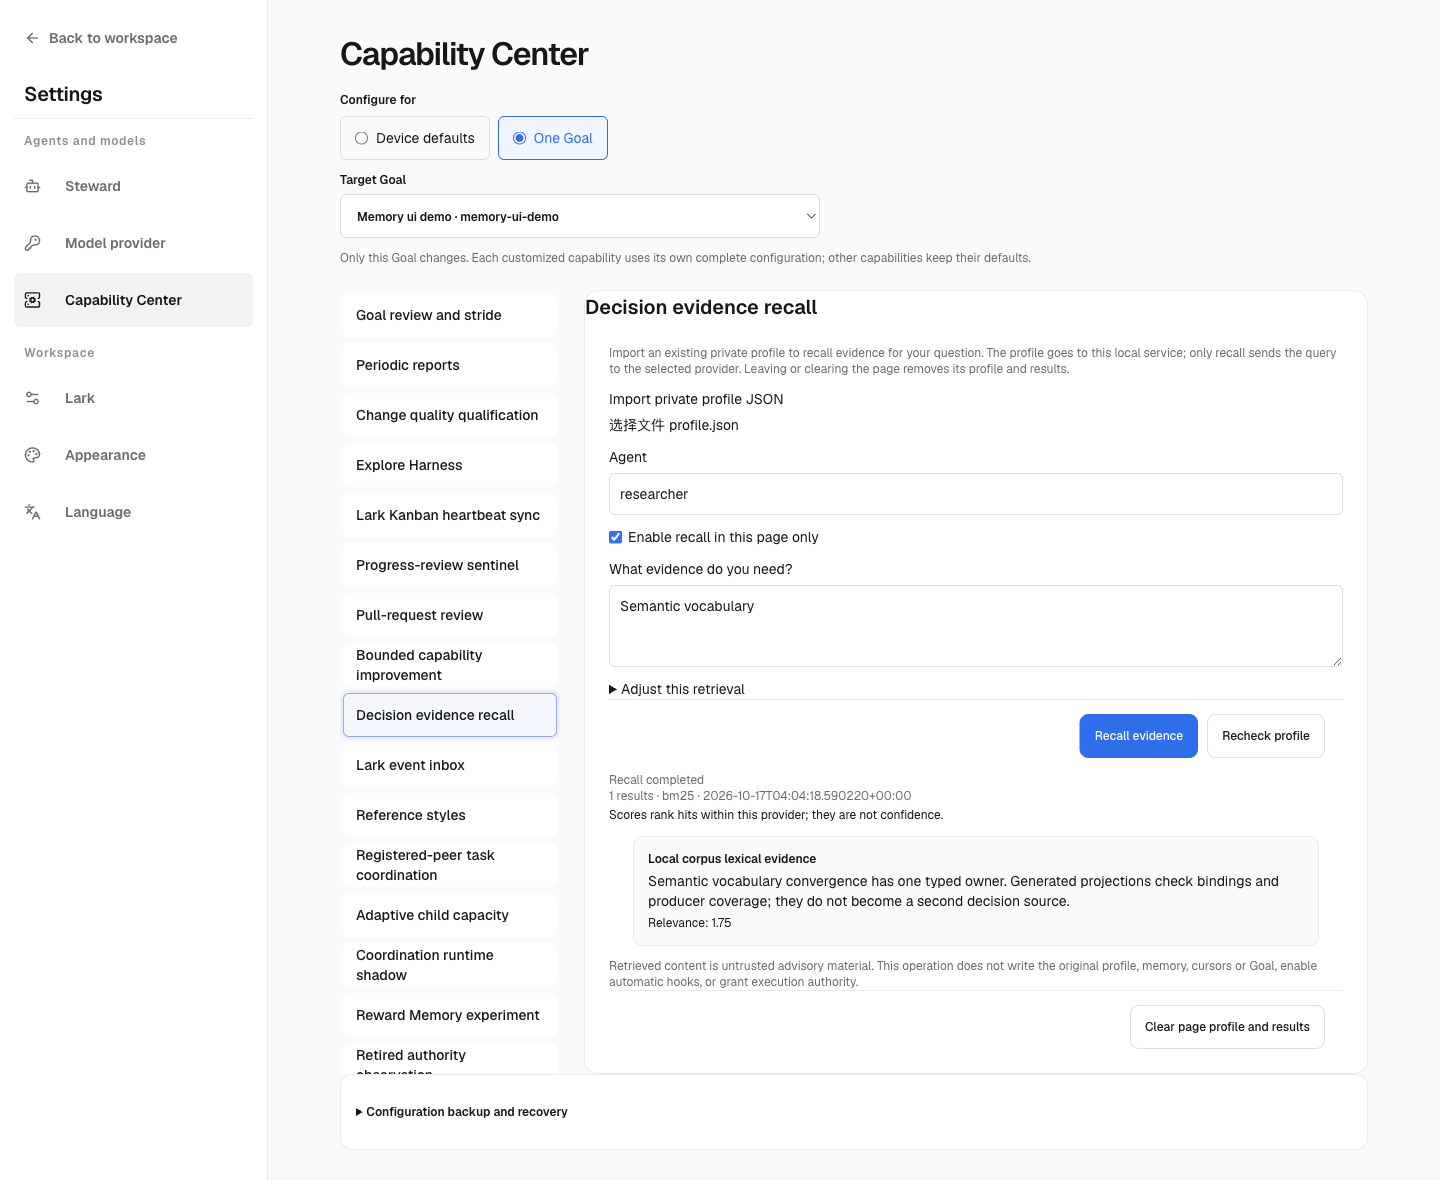
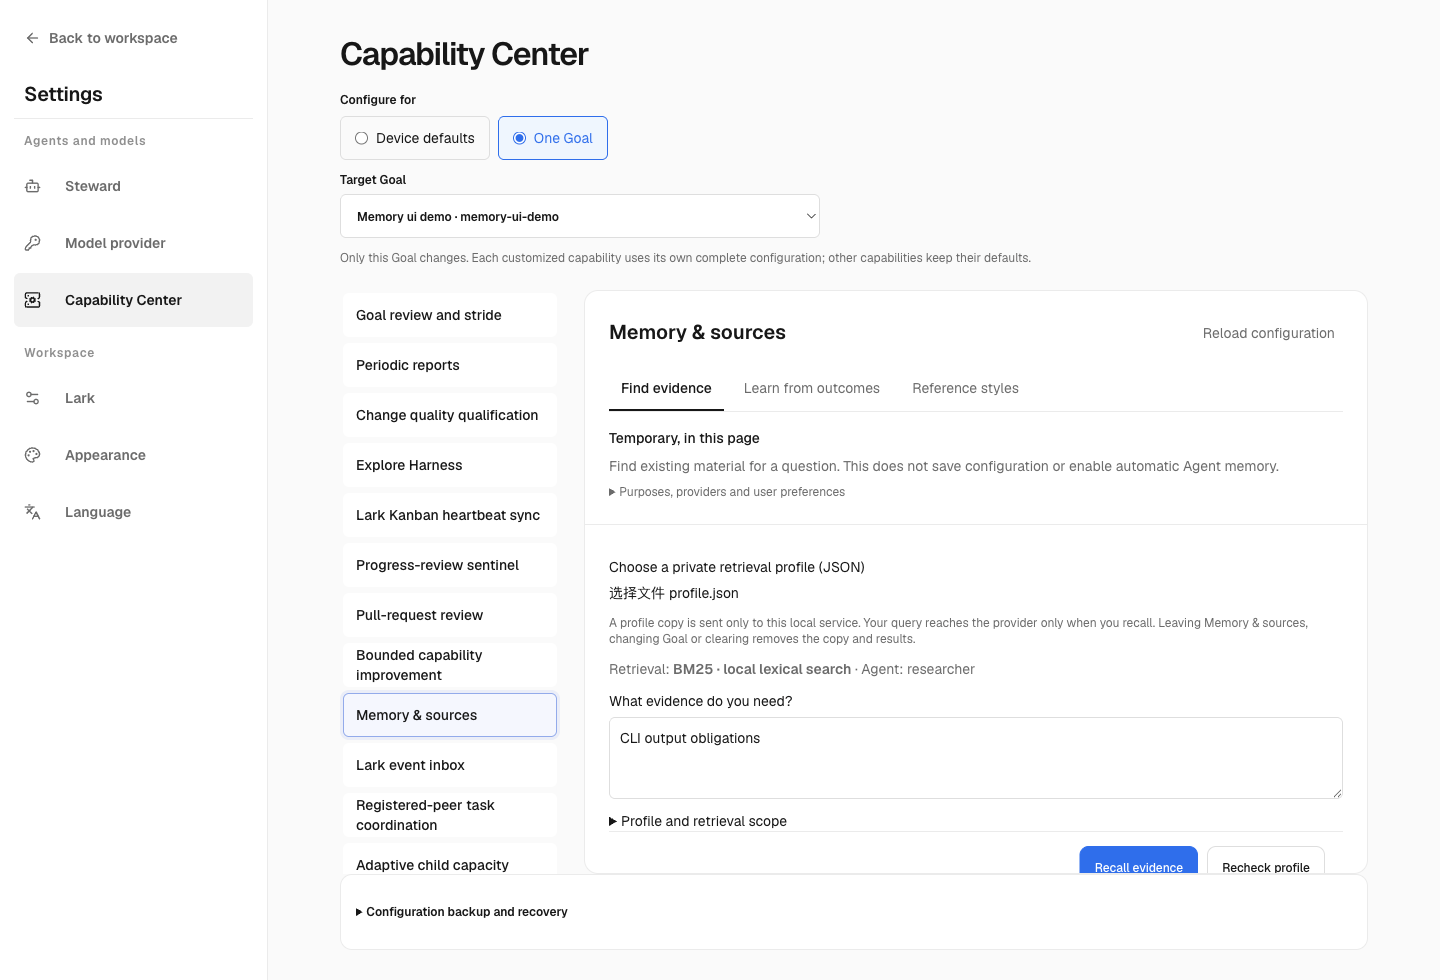
docs(memory): explain purpose and scope with packaged UI evidence

diff --git a/loopx/capabilities/decision_context/README.md b/loopx/capabilities/decision_context/README.md
@@ -211,16 +211,23 @@ retains only the query summary, provider-safe summaries, scores, and hashed
 references. Each recalled item is marked `untrusted_advisory` and must never be
 treated as an instruction.
 
-The Goal workspace also exposes **Capability Center → Decision evidence
-recall**. Import an existing private profile JSON, use its enabled Agent and
+The Goal workspace groups the existing capabilities under **Capability Center
+→ Memory & sources**. **Find evidence** uses a temporary profile for a question;
+**Learn from outcomes** retains saved Agent bindings and a separate legacy shared
+binding; **Reference styles** reads attributed writing material. OpenViking and
+BM25 are retrieval implementations, not extra memory switches. Explicit Agent
+preferences retain their complete current-view lifecycle, separately from ranked
+advisory results.
+
+Choose **Find evidence**, import an existing private profile JSON, use its enabled Agent and
 provider scope, then enter a question and select **Recall evidence**. Import
 only inspects the native activation rules; it does not access the provider.
 The profile is sent to the local Chat service in a bounded POST body, without
 writing a temporary profile or adding a persistent Goal configuration. The
 query reaches the selected provider only when recall is requested.
 
-The enable control changes the page's copy only. **Clear page profile and
-results**, leaving the capability, or reloading removes that copy and its hits;
+The enable control changes the page's copy only. **Clear temporary profile and
+results**, leaving Memory & sources, changing the Goal target, or reloading removes that copy and its hits;
 the original profile remains unchanged. Goal and Agent activation, request
 bounds, provider selection and ranking use the same owners as the CLI. Disabled,
 invalid or mismatched profiles cannot call a provider. A failed recall clears
@@ -228,10 +235,20 @@ old hits and shows the native status; restore the provider or corpus and retry.
 Use the optional retrieval controls for a one-off scope or result limit. Native
 scores apply only within that provider, not across providers or as confidence.
 The page does not enable automatic capture, host hooks, Reward Memory bindings,
-evidence settlement or execution authority. Its recalled text remains private
+evidence settlement or execution authority. Switching between memory purposes
+preserves the temporary profile, question and completed hits; an in-flight recall
+is cancelled when its pane is deactivated. Its recalled text remains private
 and untrusted; it is not a public artifact or a validated decision.
 
 ![Packaged workspace recall with synthetic BM25 evidence](assets/workspace-recall.en.png?raw=true)
+
+In **Learn from outcomes**, choose a registered Agent before previewing a saved
+binding. The selection survives configuration reload and apply; changing the
+Goal resets it. The legacy shared binding has its own explicit choice. The
+readback distinguishes configured automatic recall/writeback from verified
+execution of those paths.
+
+![Agent-scoped experience settings with synthetic disabled bindings](assets/workspace-experience.zh.png?raw=true)
 
 Source-built workspace with synthetic local evidence; this illustrates the
 interaction, not production adoption or retrieval-quality results.
